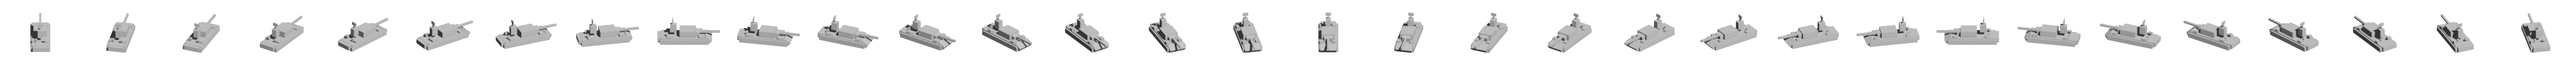
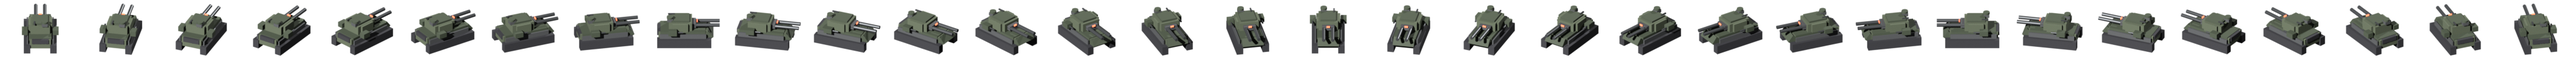
THEATER: production-quality Citadel apex unit body (32-facing turntable)
The four P4 "spectacle" apex units rendered as plain, flat-grey blocks —
recognisable silhouettes but underwhelming for "look at this HUGE thing" payoff
units. Rework the first, the Citadel land dreadnought, as a detailed 32-facing
Blender turntable: long tracked hull, sloped glacis, a massive central turret
with twin main guns, side sponsons, AA cupola and a glowing forward sensor, in
dark military green. Reads as menacing at every facing.

Pipeline: design/art/render_theater_spectacle.py (mirrors render_aircraft_bodies.py
turntable contract — front=+Y at frame 0, clockwise -Z per facing, 30deg dimetric
ortho cam, 128px frames). ortho_scale 12.5 matches the existing broadside size, so
it is a drop-in; FrameSize/FrameAmount re-embedded via --png-sheet-import (PIL
strips the chunk). Facing-correctness eyeballed across all 8 cardinal frames.

Verified: check-yaml 0 errors, clean boot (process survives 30s+, no exception log
— a wrong frame-size would throw at mod load). leviathan/archangel/tempest next.

Changed region(s): [[0.0, 0.0625, 1.0, 0.6875]]

diff --git a/design/art/render_theater_spectacle.py b/design/art/render_theater_spectacle.py
@@ -1,0 +1,162 @@
+# THEATER — Blender turntable for the P4 SPECTACLE apex UNIT bodies (citadelbody / leviathanbody /
+# archangelbody / tempestbody). These are the gargantuan "look at this HUGE thing" payoff units,
+# rendered at DOUBLE size (128px frames) so they tower over the normal roster.
+#
+# Unlike the single-angle building bodies (render_theater_buildings.py), apex units ROTATE, so each
+# body is a 32-facing turntable — same determinism contract as render_aircraft_bodies.py:
+#   * OpenRA facing 0 = NORTH = screen-UP; at facing 0 the unit travels up the screen.
+#   * Frame index increases CLOCKWISE; frame 0 leftmost; PngSheet slices L->R.
+#   * So model FRONT points +Y at frame 0, and we rotate the pivot -Z by 360/N per frame.
+#   * Camera looks from -Y/+Z at ~30deg elevation (RA 2:1 dimetric) -> +Y reads as up-screen.
+#   * 32 baked facings + real VERTICAL form (turret/superstructure height) so heading reads at every
+#     angle (a flat plate just "slides"); keep InterpolatedFacings:64 in the sequence YAML.
+#
+# Run INSIDE a connected Blender (MCP execute_blender_code, or blender --background --python). Writes
+# 32 frames per body to /tmp/<body>/fNN.png. ASSEMBLY + the REQUIRED frame-metadata embed (PIL strips
+# the PNG's FrameSize tEXt chunk on re-save, so the engine must be told the frame size again):
+#   from PIL import Image
+#   N,F=32,128
+#   strip=Image.new('RGBA',(F*N,F),(0,0,0,0))
+#   for i in range(N): strip.paste(Image.open(f'/tmp/citadel/f{i:02d}.png'),(i*F,0))
+#   strip.save('mods/theater/bits/citadelbody.png')
+#   # embed metadata (transient sidecar yaml -> PNG tEXt), then delete the sidecar:
+#   #   printf 'FrameSize: 128,128\nFrameAmount: 32\n' > mods/theater/bits/citadelbody.yaml
+#   #   ./utility.sh theater --png-sheet-import mods/theater/bits/citadelbody.png && rm mods/theater/bits/citadelbody.yaml
+# ortho_scale 12.5 matches the existing citadel broadside (~102px content in the 128px frame); keep it
+# so the rebuilt body is a drop-in (same in-world size). Sequence (mods/theater/sequences/theater.yaml)
+# already declares Facings:32 + InterpolatedFacings:64 + a `muzzle` strip, so the strip is a drop-in.
+
+import bpy, math, os
+
+N = 32
+F = 128
+
+
+def node_mat(name, rgb, rough=0.6, metal=0.0, emit=None, estr=0.0):
+    m = bpy.data.materials.get(name) or bpy.data.materials.new(name)
+    m.use_nodes = True
+    b = next(n for n in m.node_tree.nodes if n.type == 'BSDF_PRINCIPLED')
+    b.inputs['Base Color'].default_value = (*rgb, 1.0)
+    b.inputs['Roughness'].default_value = rough
+    b.inputs['Metallic'].default_value = metal
+    if emit is not None:
+        b.inputs['Emission Color'].default_value = (*emit, 1.0)
+        b.inputs['Emission Strength'].default_value = estr
+    return m
+
+
+_made = []
+
+
+def _box(loc, sc, mat, rot=(0, 0, 0)):
+    bpy.ops.mesh.primitive_cube_add(size=1, location=loc)
+    o = bpy.context.active_object; o.name = 'GEN_b'; o.scale = sc
+    o.rotation_euler = tuple(math.radians(a) for a in rot)
+    o.data.materials.clear(); o.data.materials.append(mat); _made.append(o); return o
+
+
+def _cyl(loc, r, h, mat, v=16, rot=(0, 0, 0)):
+    bpy.ops.mesh.primitive_cylinder_add(vertices=v, radius=r, depth=h, location=loc)
+    o = bpy.context.active_object; o.name = 'GEN_c'
+    o.rotation_euler = tuple(math.radians(a) for a in rot)
+    o.data.materials.clear(); o.data.materials.append(mat); _made.append(o); return o
+
+
+def build_citadel():
+    """Apex super-heavy land dreadnought: long tracked hull, sloped glacis, massive central turret with
+    TWIN main guns (front=+Y), side sponsons, AA cupola and a glowing forward sensor. Dark military green."""
+    green = node_mat('GEN_green', (0.19, 0.23, 0.15), 0.7)
+    green_d = node_mat('GEN_green_d', (0.12, 0.15, 0.10), 0.7)
+    track = node_mat('GEN_track', (0.08, 0.08, 0.09), 0.6)
+    metal = node_mat('GEN_metal', (0.26, 0.27, 0.28), 0.5, 0.4)
+    gun = node_mat('GEN_gun', (0.16, 0.17, 0.18), 0.4, 0.5)
+    red = node_mat('GEN_red', (0.7, 0.12, 0.10), 0.3, 0.0, emit=(0.9, 0.12, 0.05), estr=4.0)
+    _box((-2.05, 0, 0.7), (1.0, 8.4, 1.4), track)
+    _box((2.05, 0, 0.7), (1.0, 8.4, 1.4), track)
+    _box((0, -0.2, 1.55), (3.3, 7.6, 1.5), green)
+    _box((0, 3.5, 1.5), (3.3, 1.6, 1.3), green_d, rot=(38, 0, 0))           # sloped glacis (+Y front)
+    _box((0, -0.2, 2.25), (3.5, 7.0, 0.4), green_d)
+    _box((-2.0, -0.2, 1.5), (0.2, 7.2, 1.3), metal)
+    _box((2.0, -0.2, 1.5), (0.2, 7.2, 1.3), metal)
+    _box((0, -0.6, 3.1), (3.0, 3.6, 1.5), green)                            # turret
+    _box((0, -0.6, 3.1), (3.7, 2.4, 1.4), green)
+    _box((0, -0.6, 3.95), (2.4, 2.8, 0.4), green_d)
+    _cyl((-0.7, 2.9, 3.1), 0.26, 5.2, gun, rot=(90, 0, 0))                  # twin main guns -> +Y
+    _cyl((0.7, 2.9, 3.1), 0.26, 5.2, gun, rot=(90, 0, 0))
+    _box((0, 1.2, 3.1), (1.9, 1.2, 0.7), metal)                            # mantlet
+    for x in (-2.4, 2.4):
+        _box((x, -1.8, 2.7), (0.9, 1.3, 0.8), green_d)                     # side sponsons
+        _cyl((x, -1.0, 2.7), 0.12, 1.6, gun, rot=(90, 0, 0))
+    _box((0.7, -2.2, 4.1), (0.9, 0.9, 0.5), metal)                         # cupola
+    _cyl((0.7, -2.2, 4.5), 0.5, 0.3, green_d)
+    _box((-0.9, -2.0, 4.2), (0.18, 1.0, 0.18), gun)                        # AA mg
+    _box((0, 2.0, 3.5), (0.5, 0.12, 0.22), red)                            # forward sensor glow
+    _box((0, -3.9, 2.0), (2.6, 0.5, 0.7), track)                          # rear exhaust
+    return 12.5  # ortho_scale (matches existing broadside size)
+
+
+BODIES = {'citadel': build_citadel}   # leviathan/archangel/tempest added as they are reworked
+
+
+def turntable_cam(ortho):
+    cam = bpy.data.objects.get('GEN_ttcam')
+    if not cam:
+        cd = bpy.data.cameras.new('GEN_ttcam'); cam = bpy.data.objects.new('GEN_ttcam', cd)
+        bpy.context.scene.collection.objects.link(cam)
+    cam.location = (0, -10.392, 6.0)                  # -Y/+Z, 30deg elevation toward +Y
+    cam.rotation_euler = (math.radians(60), 0, 0)
+    cam.data.type = 'ORTHO'; cam.data.ortho_scale = ortho
+    return cam
+
+
+def render_body(name, builder):
+    global _made
+    _made = []
+    ortho = builder()
+    pivot = bpy.data.objects.new('GEN_pivot', None)
+    bpy.context.scene.collection.objects.link(pivot)
+    for o in _made:
+        o.parent = pivot
+    scene = bpy.context.scene
+    scene.camera = turntable_cam(ortho)
+    scene.render.film_transparent = True
+    scene.render.image_settings.file_format = 'PNG'
+    scene.render.image_settings.color_mode = 'RGBA'
+    scene.render.resolution_x = scene.render.resolution_y = F
+    outdir = f'/tmp/{name}'
+    os.makedirs(outdir, exist_ok=True)
+    for i in range(N):
+        pivot.rotation_euler.z = math.radians(-i * 360.0 / N)   # frame0 front=+Y; CLOCKWISE
+        bpy.context.view_layer.update()
+        scene.render.filepath = f'{outdir}/f{i:02d}.png'
+        bpy.ops.render.render(write_still=True)
+    print(f'rendered {N} frames -> {outdir}')
+    bpy.data.objects.remove(pivot, do_unlink=True)
+    for o in list(_made):
+        bpy.data.objects.remove(o, do_unlink=True)
+    for m in list(bpy.data.materials):
+        if m.name.startswith('GEN_'):
+            bpy.data.materials.remove(m)
+
+
+def main():
+    hidden = [o for o in bpy.data.objects if o.type == 'MESH' and not o.hide_render]
+    for o in hidden:
+        o.hide_render = True
+    prev_cam = bpy.context.scene.camera
+    bpy.data.objects['Key'].data.energy = 3.6
+    for name, builder in BODIES.items():
+        render_body(name, builder)
+    # restore
+    for o in hidden:
+        o.hide_render = False
+    if prev_cam:
+        bpy.context.scene.camera = prev_cam
+    bpy.data.objects['Key'].data.energy = 4.2
+    cam = bpy.data.objects.get('GEN_ttcam')
+    if cam:
+        bpy.data.objects.remove(cam, do_unlink=True)
+
+
+if __name__ == '__main__':
+    main()
